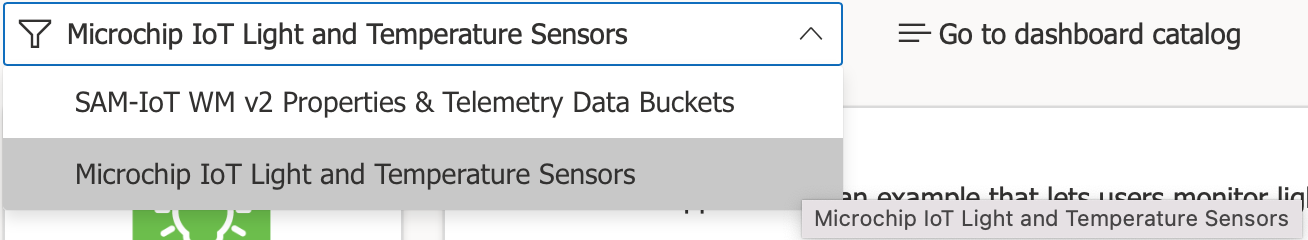
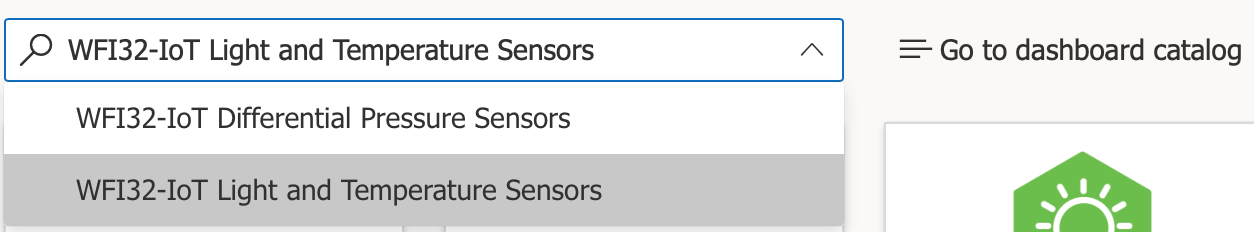
Update IOTC guidance

diff --git a/WFI32_IoT_Central_SAS.md b/WFI32_IoT_Central_SAS.md
@@ -50,7 +50,7 @@ As a solution builder, you can use IoT Central to develop a cloud-hosted IoT sol
 
     If any changes were made in the project properties window, the `Apply` button should become enabled.  Make sure to hit the `Apply` button before hitting `OK`
 
-6. Right-click on the `WFI32-IoT_Azure` project and select `Clean`. Right-click the project again and select `Make and Program Device`. This operation will automatically build the project before attempting to program the target device. After the `BUILD SUCCESSFUL` message appears in the Output window, the application HEX file will be programmed onto the WFI32-IoT Board. Once programming has finished, the board will automatically reset and start running its application code
+6. Right-click on the `WFI32-IoT_Azure` project and select `Clean`. Right-click the project again and select `Make and Program Device`. This operation will automatically build the project before attempting to program the target device. After the `BUILD SUCCESSFUL` message appears in the Output window, the application HEX file will be programmed onto the WFI32-IoT Board. Once programming has finished, the board will automatically reset and start running its application code. The Mass Storage Device will reinitialize and take on the new name of `WFI32-IOT`
 
 7. Quit the MPLAB X IDE by selecting `MPLAB X IDE` &gt; `Quit MPLAB X IDE` from the main toolbar. Please confirm the application has actually been closed before proceeding...
 
@@ -105,17 +105,17 @@ Whenever the demo application is reset, it will check for the presence of all 3 
 
 <img src=".//media/image46.png">
 
-If any of the files do not exist when the demo application is reset, the missing file(s) will be automatically generated. In case any of these files are accidentally edited, simply delete the certificate(s) from the `WFI32-IOT` drive and reset the application so that they will be automatically regenerated.
+If any of the files do not exist when the demo application is reset, the missing file(s) will be automatically generated. In case any of these files are accidentally edited, simply delete the certificate(s) from the `WFI32-IOT` MSD and reset the application so that they will be automatically regenerated.
 
 ## Create an IoT Central Application
 
 IoT Central allows you to create an application dashboard to monitor the telemetry and take appropriate actions based on customized rules.
 
-1. Create a custom IoT Central application by starting with an existing [Microchip WFI32-IoT Board Template](https://apps.azureiotcentral.com/build/new/db598a83-644a-4e2c-b4e1-f3e52978d006) (if there is a problem with loading the template, refer to the [Create an application](https://docs.microsoft.com/en-us/azure/iot-central/core/quick-deploy-iot-central) section to create your IoT Central application from scratch). If you are not currently logged into your [Microsoft account](https://account.microsoft.com/account), you will be prompted to sign in with your credentials to proceed. If you do not have an existing Microsoft account, go ahead and create one now by clicking on the `Create one!` link
+1. Create a custom IoT Central application by accessing (clicking on) the existing [Microchip WFI32-IoT Application Template](https://apps.azureiotcentral.com/build/new/db598a83-644a-4e2c-b4e1-f3e52978d006) (if there is a problem with loading the template, refer to the [Create an application](https://docs.microsoft.com/en-us/azure/iot-central/core/quick-deploy-iot-central) section to create your IoT Central application from scratch). If you are not currently logged into your [Microsoft account](https://account.microsoft.com/account), you will be prompted to sign in with your credentials to proceed. If you do not have an existing Microsoft account, go ahead and create one now by clicking on the `Create one!` link
 
 2. Azure IoT Builder will guide you through the process of creating your application. Review and select the various settings for your IoT Central application (if needed, refer to [Create an application](https://docs.microsoft.com/en-us/azure/iot-central/core/quick-deploy-iot-central) for additional guidance on selecting the settings for your application). Do not click the `Create` button just yet - only after reviewing and taking into consideration the following recommendations:
   
-    - Choose a unique `Application name` (which will result in a unique `URL`) for accessing your application. Azure IoT Builder will populate a suggested unique `Application name` which can/should be leveraged, resulting in a unique `URL` shown on the screen. Take note of the unique/customizable portion of the `URL` (e.g. "custom-1pfphmras2b" like shown in the below screen shot) as it will be needed in a future step (suggest copy/pasting the exact text into a text editor doc file as temporary storage for the name)
+    - Choose a unique `Application name` (which will result in a unique `URL`) for accessing your application. Azure IoT Builder will populate a suggested unique `Application name` which can/should be leveraged, resulting in a unique `URL` which can be used to access this specific application in the future
 
         <img src=".//media/image80a.png">
 
@@ -133,9 +133,9 @@ IoT Central allows you to create an application dashboard to monitor the telemet
         
 3. Click the `Create` button (the application will be automatically saved in your [IoT Central Portal](https://apps.azureiotcentral.com))
 
-4. Look up the settings for your application by using the left-hand navigation pane to select `Settings` &gt; `Application` &gt; `Management`
+4. [FYI] Look up the settings for your application by using the left-hand navigation pane to select `Settings` &gt; `Application` &gt; `Management`
 
-5. To access your IoT Central application(s) in the future, go to [Azure IoT Central](https://apps.azureiotcentral.com) and click on `My apps` (or go directly to the custom URL defined for your application)
+5. [FYI] To access your IoT Central application(s) in the future, log into the [Azure IoT Central Portal](https://apps.azureiotcentral.com) and click on `My apps` (or go directly to the custom URL defined for your application)
 
     <img src=".//media/image108.png" style="width:5.in;height:1.98982in" alt="A screenshot of a cell phone Description automatically generated" />
 
@@ -160,7 +160,7 @@ IoT Central allows you to create an application dashboard to monitor the telemet
 
     <img src=".//media/image86.png">
 
-6. In the `Create a new device` window, it is suggested to accept the default device name and ID that are randomly-generated (but can be changed to more meaningful names if you like). Select `WFI32_IoT_WM;1` for the device template. Click on the `Create` button
+6. In the `Create a new device` window, it is suggested to accept the default device name and ID that are randomly-generated (but can be changed to more meaningful names if you like). Select `WFI32_IoT_WM;2` for the device template. Click on the `Create` button
 
     <img src=".//media/image87.png" style="width:5.in;height:3.68982in" alt="A screenshot of a cell phone Description automatically generated" />
 
@@ -229,7 +229,7 @@ IoT Central allows you to create an application dashboard to monitor the telemet
 
     <img src=".//media/image100.png" style="width:5.in;height:0.98982in" alt="A screenshot of a cell phone Description automatically generated" />
 
-2. Towards the top of the web page, click on the dashboard selector and change the view to `Microchip IoT Light and Temperature Sensors`
+2. Towards the top of the web page, click on the dashboard selector and change the view to `WFI32-IoT Light and Temperature Sensors`
 
     <img src=".//media/image100a.png">
 
@@ -264,17 +264,19 @@ IoT Central allows you to create an application dashboard to monitor the telemet
 
     <img src=".//media/image107.png" style="width:5.in;height:2.58982in" alt="A screenshot of a cell phone Description automatically generated" />
 
-10. To access your IoT Central application(s) in the future, go to [Azure IoT Central](https://apps.azureiotcentral.com) and click on `My apps` (or go directly to the custom URL defined for your application)
+10. [FYI] To access your IoT Central application(s) in the future, log into the [Azure IoT Central Portal](https://apps.azureiotcentral.com) and click on `My apps` (or go directly to the custom URL defined for your application)
 
     <img src=".//media/image108.png" style="width:5.in;height:1.98982in" alt="A screenshot of a cell phone Description automatically generated" />
 
 ## WFI32-IoT Differential Pressure Sensors
 
-If you have one or both of the optional MikroElektronika "Ultra-Low Press" and/or "VAV Press" Click boards installed on the WFI32-IoT Board's mikroBUS™ socket, feel free to create a similar IoT Central application using an existing ["WFI32-IoT Differential Pressure Sensors" application template](https://apps.azureiotcentral.com/build/new/926fba4f-fc71-40c7-a129-f608458995c1) that contains a single dashboard specifically for visualizing the differential pressure and temperature sensor telemetry from the Click board(s). Once a new IoT Central application has been created, execute the following steps:
+If you have one or both of the optional MikroElektronika "Ultra-Low Press" and/or "VAV Press" Click boards installed on the WFI32-IoT Board's mikroBUS™ socket, use the pre-configured example dashboard for visualizing the differential pressure and temperature sensor telemetry from the Click board(s).
 
-1. Repeat the procedure outlined in the previous section titled "Connect your Device to the IoT Central Application" to confirm that your device has been properly registered/added to the new application
+1. Using the left-hand navigation pane, select `Analyze` &gt; `Dashboards`
 
-2. Using the left-hand navigation pane, select `Analyze` &gt; `Dashboards`
+2. Towards the top of the web page, click on the dashboard selector and change the view to `WFI32-IoT Differential Pressure Sensors`
+
+    <img src=".//media/image109.png">
 
 3. Click on the `Edit` icon
 
@@ -289,7 +291,7 @@ If you have one or both of the optional MikroElektronika "Ultra-Low Press" and/o
 
 5. Click on the `Save` icon
 
-    <img src=".//media/image109.png" style="width:6.0in;height:5.0in" alt="A screenshot of a cell phone Description automatically generated" />
+    <img src=".//media/image110.png" style="width:6.0in;height:5.0in" alt="A screenshot of a cell phone Description automatically generated" />
 
 ## Expand the Dashboard with Additional Tiles
 
